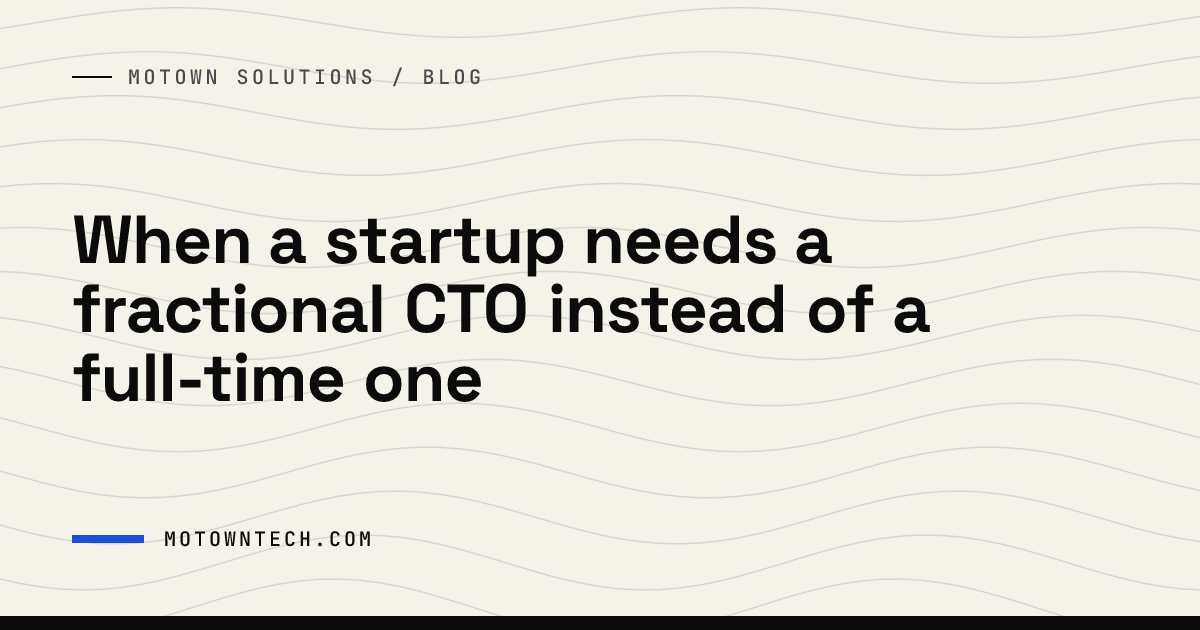
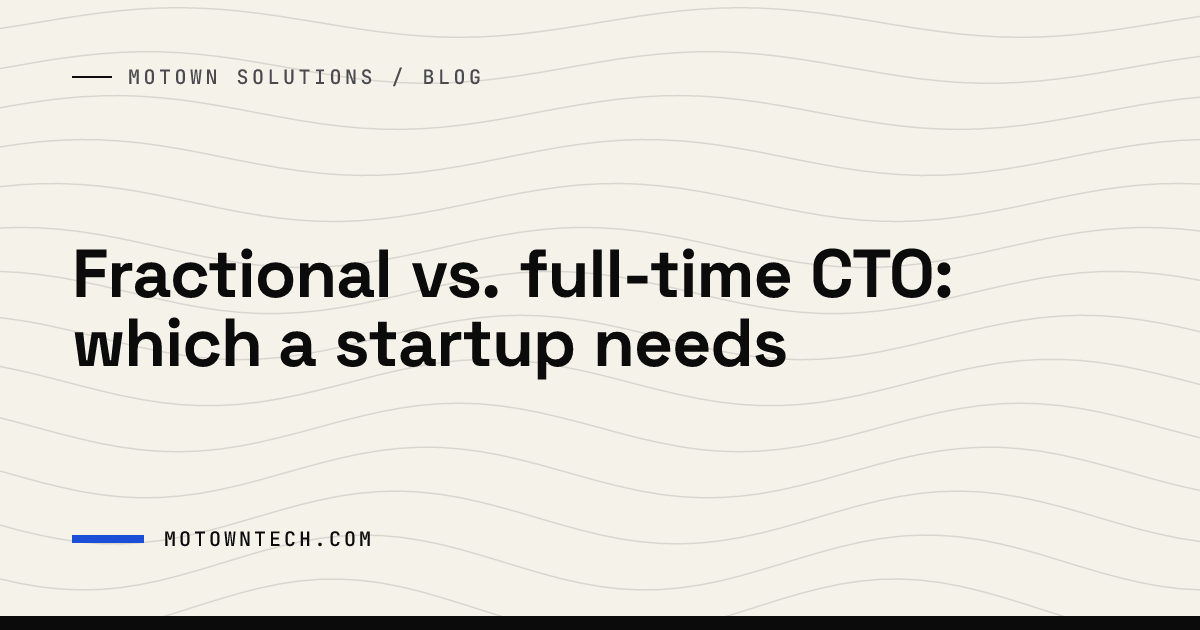
content(blog): shorten seven post titles to 60 characters
Keeps every post title within what Google shows on mobile and tightens the /blog-post title rule to 45-60 characters. Title cards regenerated.

Changed region(s): [[0.0617, 0.3317, 0.8017, 0.6333]]

diff --git a/.claude/skills/blog-post/SKILL.md b/.claude/skills/blog-post/SKILL.md
@@ -26,7 +26,8 @@ them that way. If the post needs a fact you don't have, ask.
   - Say what the reader gets: a decision, a method, or what changed for a
     client. Case-study posts name the kind of client and what was done
     ("How an auction house replaced its spreadsheets with a real app").
-  - 45 to 65 characters; posts have no brand suffix in the browser title.
+  - 45 to 60 characters (Google trims longer titles on mobile); posts have
+    no brand suffix in the browser title.
   - Plain sentence case. No riddles, slogans or two-fragment lines
     ("X. Y.") as the whole title; a clever line can open the post instead.
     A colon only to separate topic from angle.

diff --git a/src/content/blog/auction-house-spreadsheets.md b/src/content/blog/auction-house-spreadsheets.md
@@ -1,5 +1,5 @@
 ---
-title: "How an auction house replaced its spreadsheets with a real app"
+title: "How an auction house replaced its spreadsheets with an app"
 image: ../../assets/blog/auction-house-spreadsheets-image.jpg
 imageAlt: "Loose paper slips and blank photos scattered across a blue surface, turning into a neat column of paper tags on the right"
 cover: ../../assets/blog/auction-house-spreadsheets.png

diff --git a/src/content/blog/what-your-prototype-skipped.md b/src/content/blog/what-your-prototype-skipped.md
@@ -1,5 +1,5 @@
 ---
-title: "What an AI-built prototype needs before it's ready for real users"
+title: "What an AI-built prototype needs before real users arrive"
 image: ../../assets/blog/what-your-prototype-skipped-image.jpg
 imageAlt: "A half-built stone arch supported by wooden scaffolding on a blue floor"
 cover: ../../assets/blog/what-your-prototype-skipped.png

diff --git a/src/content/blog/technical-due-diligence-explained.md b/src/content/blog/technical-due-diligence-explained.md
@@ -1,5 +1,5 @@
 ---
-title: "What technical due diligence checks before a raise or acquisition"
+title: "What technical due diligence checks before a raise or sale"
 image: ../../assets/blog/technical-due-diligence-explained-image.jpg
 imageAlt: "A jeweler's loupe next to a white cube on a blue surface"
 cover: ../../assets/blog/technical-due-diligence-explained.png

diff --git a/src/content/blog/building-for-people-in-grief.md b/src/content/blog/building-for-people-in-grief.md
@@ -1,5 +1,5 @@
 ---
-title: "How we designed a member platform for a grief-support nonprofit"
+title: "Designing a member platform for a grief-support nonprofit"
 image: ../../assets/blog/building-for-people-in-grief-image.jpg
 imageAlt: "A small olive sapling in a pot on a blue windowsill in sunlight"
 cover: ../../assets/blog/building-for-people-in-grief.png

diff --git a/src/content/blog/headless-wordpress-clinic.md b/src/content/blog/headless-wordpress-clinic.md
@@ -1,5 +1,5 @@
 ---
-title: "How a clinic kept WordPress for editing and made its site static"
+title: "How a clinic kept WordPress for editing and went static"
 image: ../../assets/blog/headless-wordpress-clinic-image.jpg
 imageAlt: "An empty blue stage with ropes and pulleys visible backstage"
 cover: ../../assets/blog/headless-wordpress-clinic.png

diff --git a/src/content/blog/inherited-codebase.md b/src/content/blog/inherited-codebase.md
@@ -1,5 +1,5 @@
 ---
-title: "Taking over someone else's codebase without breaking anything"
+title: "Taking over someone else's codebase without breaking it"
 image: ../../assets/blog/inherited-codebase-image.jpg
 imageAlt: "A ring of old mismatched keys on a blue surface, one of them new and blue"
 cover: ../../assets/blog/inherited-codebase.png

diff --git a/src/content/blog/fractional-cto-for-startups.md b/src/content/blog/fractional-cto-for-startups.md
@@ -1,5 +1,5 @@
 ---
-title: "When a startup needs a fractional CTO instead of a full-time one"
+title: "Fractional vs. full-time CTO: which a startup needs"
 image: ../../assets/blog/fractional-cto-for-startups-image.jpg
 imageAlt: "A brass compass on a blue surface casting a long shadow"
 cover: ../../assets/blog/fractional-cto-for-startups.png
